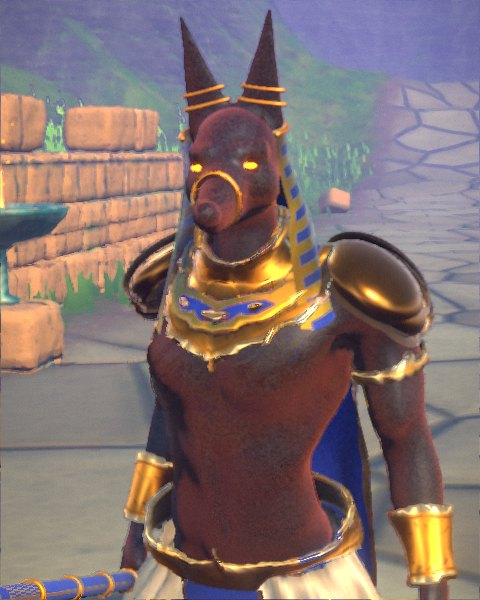
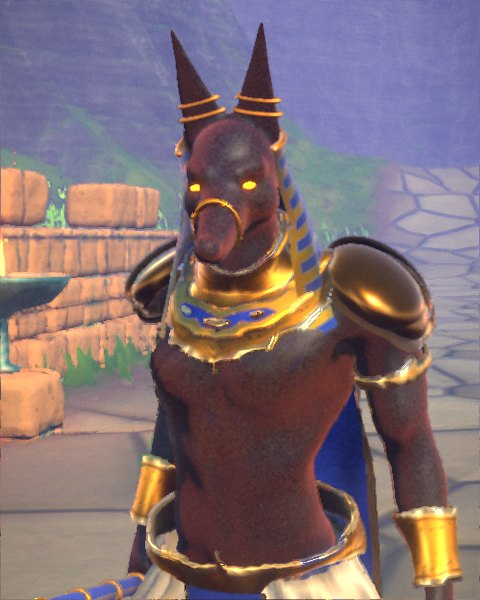
Re-bake god face cards from the current models
The gods gained idle stances and hero-sized weapons since the cards were
made. The bust camera now sits a little lower so a god whose idle lowers
the head (Thor) still shows his face.

Claude-Session: https://claude.ai/code/session_01CS3nLhUP1peShwo7s1zABw

diff --git a/src/dev/Showcase.ts b/src/dev/Showcase.ts
@@ -76,8 +76,8 @@ export class Showcase {
       const side = new THREE.Vector3(1, 0, 0).applyQuaternion(g.root.quaternion);
       this.camera.fov = 26;
       this.camera.updateProjectionMatrix();
-      this.camera.position.copy(head).addScaledVector(fwd, 2.9).addScaledVector(side, 0.55).add(new THREE.Vector3(0, 0.12, 0));
-      this.camera.lookAt(head.x, head.y - 0.22, head.z);
+      this.camera.position.copy(head).addScaledVector(fwd, 2.9).addScaledVector(side, 0.55).add(new THREE.Vector3(0, -0.06, 0));
+      this.camera.lookAt(head.x, head.y - 0.2, head.z);
     }
     if (this.view === 'portrait' && g) {
       // frame the face: in front of the head bone, slightly above eye level
